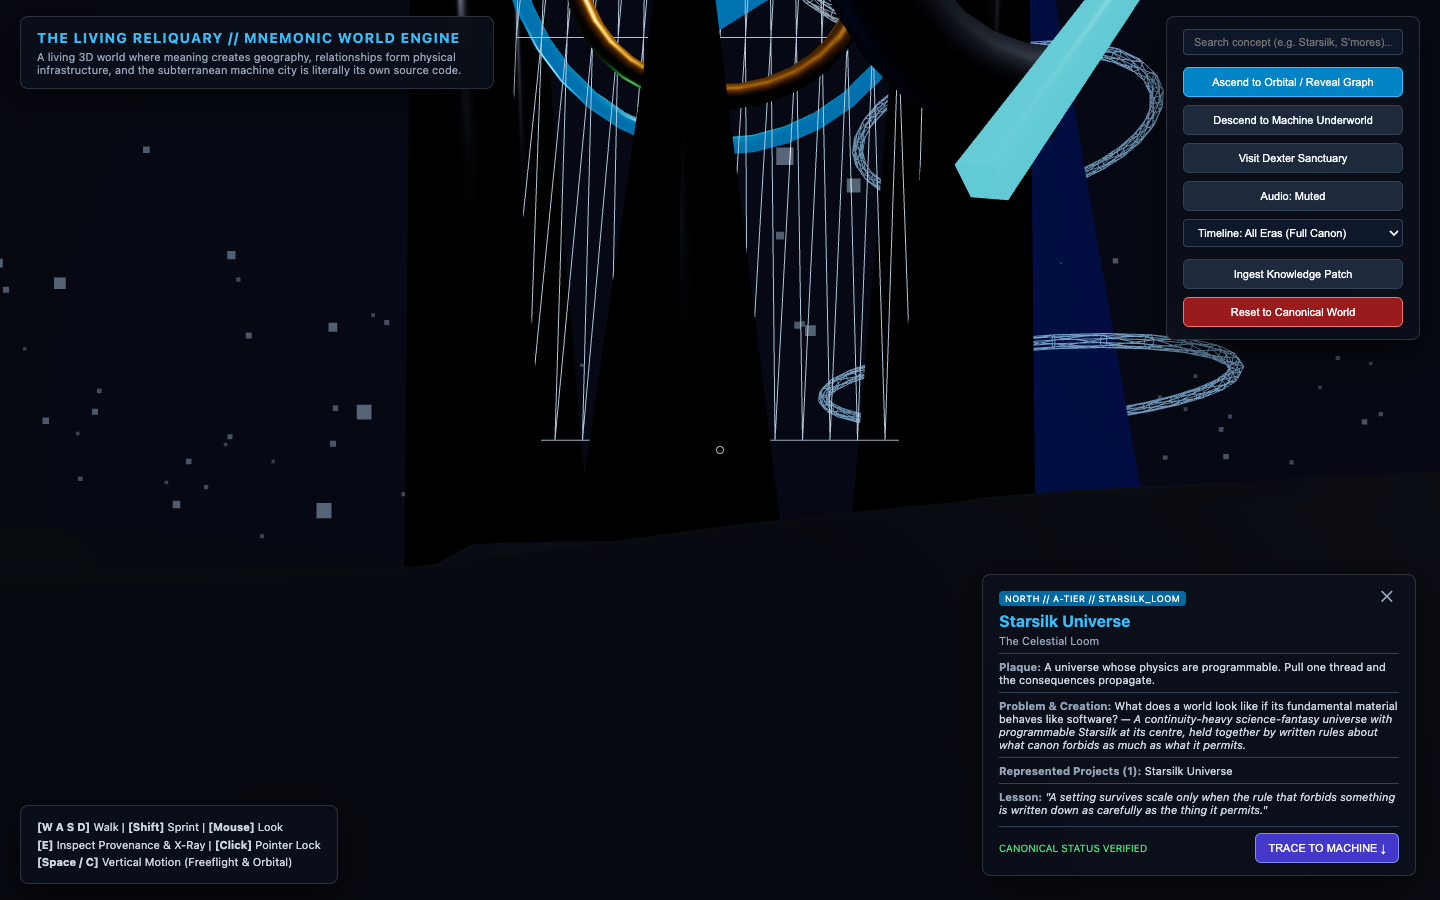
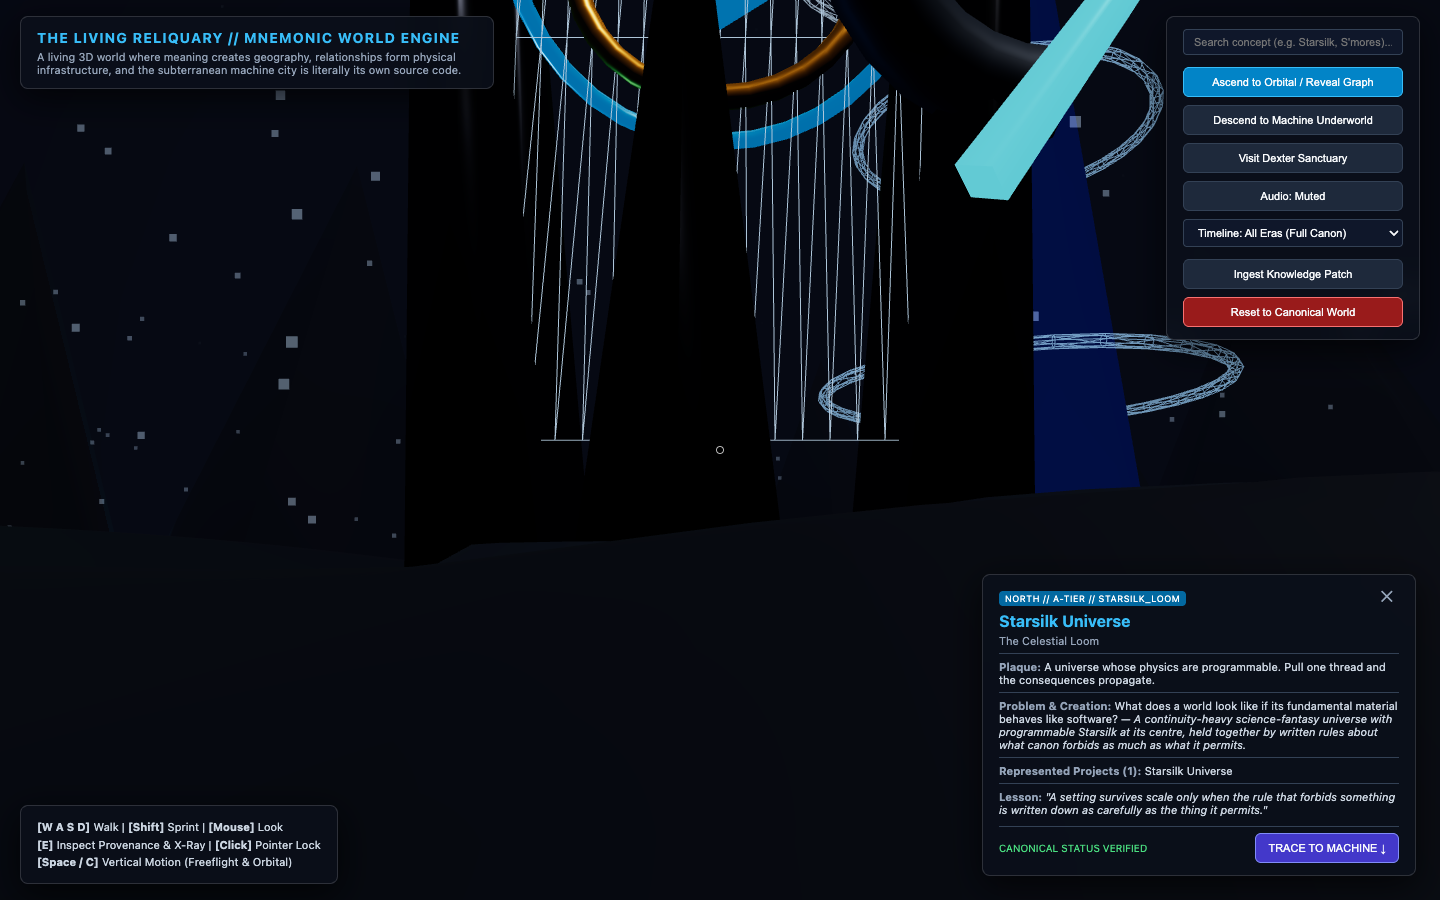
refine(loop-01): perimeter mountain ridge silhouettes and celestial starfield dome

diff --git a/src/world/Terrain.ts b/src/world/Terrain.ts
@@ -152,14 +152,45 @@ export class Terrain {
 
   // 3 World-Class Megastructures with Architectural Depth & Skyline
   private buildMegastructures() {
-    // 0. Celestial Horizon Sphere / Starfield Dome (Deep sky gradient with astronomical rings)
+    // 0. Celestial Horizon Sphere & Distant Mountain Silhouettes (Deep astronomical gradient)
     const skyGeo = new THREE.SphereGeometry(380, 32, 24);
     const skyMat = new THREE.MeshBasicMaterial({
-      color: 0x070c1a,
+      color: 0x060a17,
       side: THREE.BackSide
     });
     const skyDome = new THREE.Mesh(skyGeo, skyMat);
     this.group.add(skyDome);
+
+    // Distant Star Constellation Points across the dome
+    const starCount = 600;
+    const starGeo = new THREE.BufferGeometry();
+    const starPos = new Float32Array(starCount * 3);
+    for (let i = 0; i < starCount; i++) {
+      const u = Math.random();
+      const v = Math.random();
+      const theta = u * 2.0 * Math.PI;
+      const phi = Math.acos(2.0 * v - 1.0);
+      const r = 370;
+      starPos[i * 3] = r * Math.sin(phi) * Math.cos(theta);
+      starPos[i * 3 + 1] = Math.abs(r * Math.cos(phi)) + 15; // Above horizon
+      starPos[i * 3 + 2] = r * Math.sin(phi) * Math.sin(theta);
+    }
+    starGeo.setAttribute('position', new THREE.BufferAttribute(starPos, 3));
+    const starMat = new THREE.PointsMaterial({ color: 0x93c5fd, size: 1.4, transparent: true, opacity: 0.85 });
+    const starField = new THREE.Points(starGeo, starMat);
+    this.group.add(starField);
+
+    // Distant Mountain Ranges girding the outer perimeter (220m radius)
+    const mountainMat = new THREE.MeshStandardMaterial({ color: 0x050914, roughness: 0.9, metalness: 0.2 });
+    for (let i = 0; i < 28; i++) {
+      const angle = (i / 28) * Math.PI * 2;
+      const dist = 210 + (i % 3) * 15;
+      const peakH = 45 + (i % 4) * 20;
+      const peakR = 25 + (i % 3) * 12;
+      const mountain = new THREE.Mesh(new THREE.ConeGeometry(peakR, peakH, 5), mountainMat);
+      mountain.position.set(Math.cos(angle) * dist, peakH / 2 - 10, Math.sin(angle) * dist);
+      this.group.add(mountain);
+    }
 
     // Distant Celestial Horizon Ring (Tilted orbital ring girding the world)
     const horizonRingMat = new THREE.MeshBasicMaterial({ color: 0x1e293b, wireframe: true, transparent: true, opacity: 0.4 });
